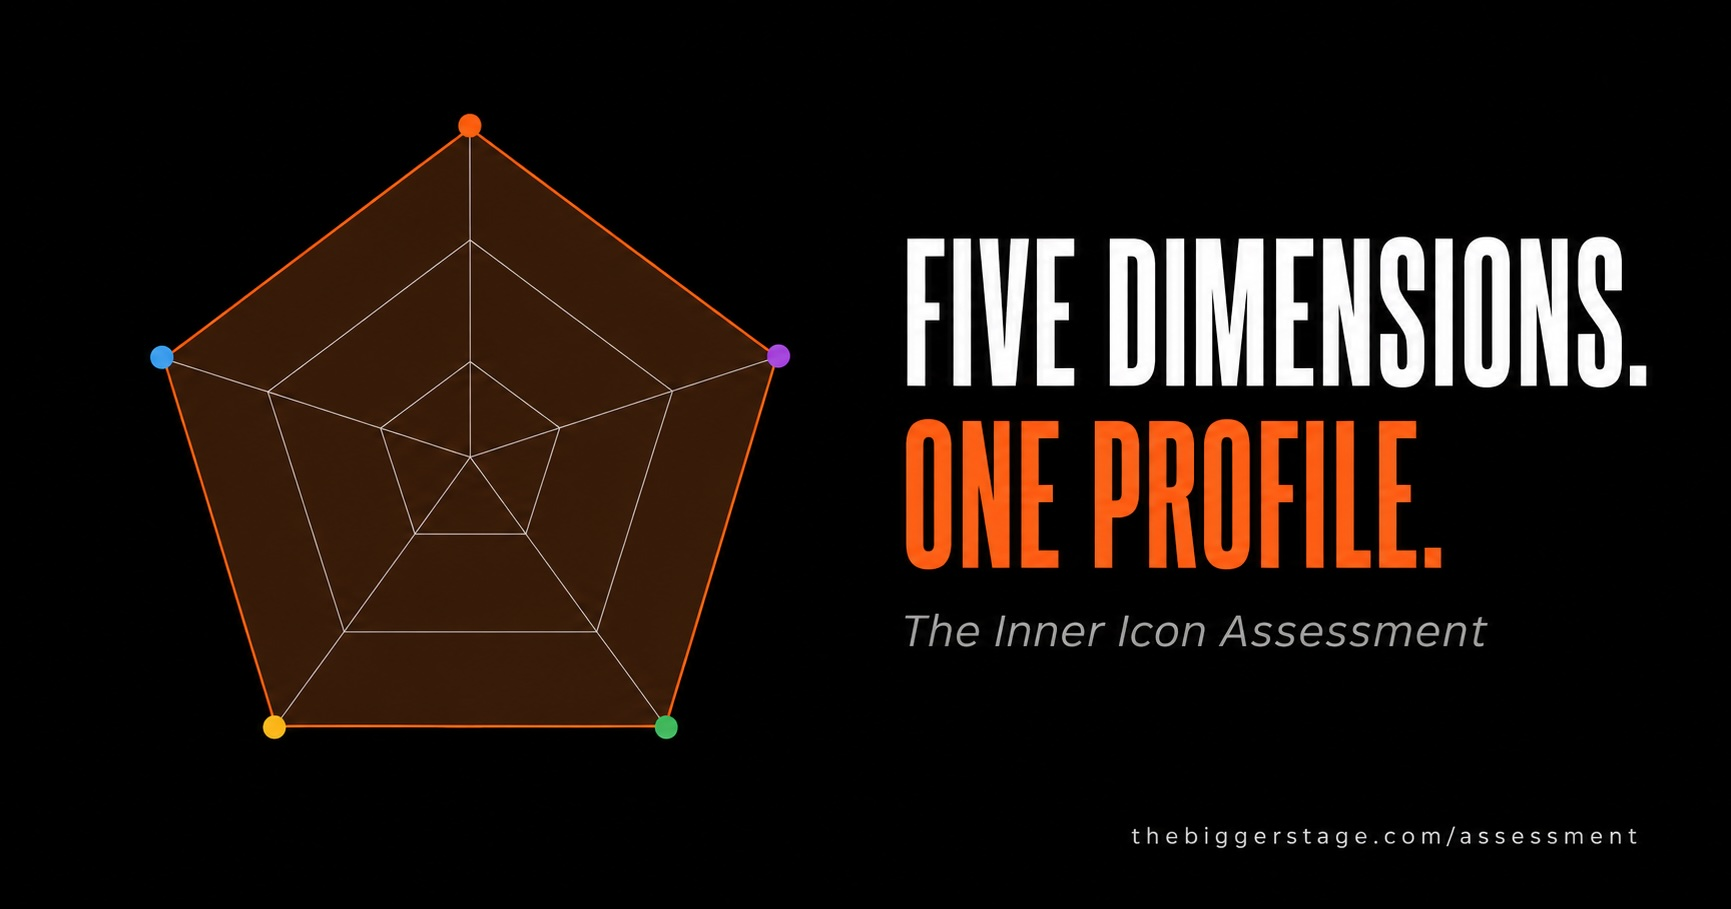
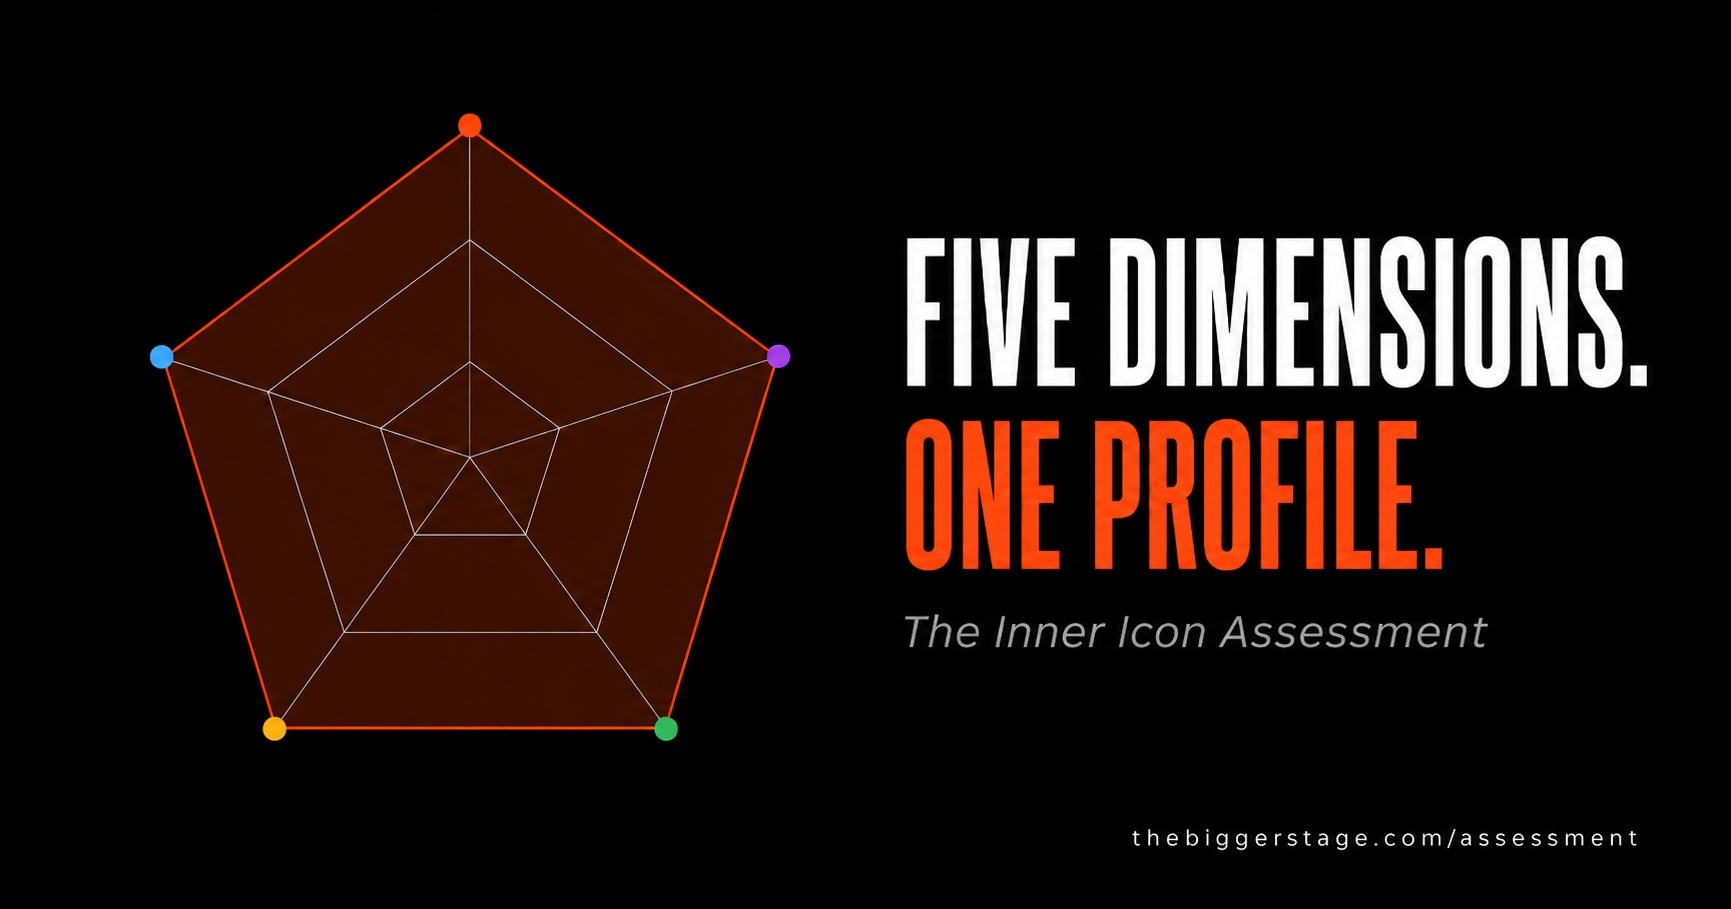
color changes

diff --git a/assessment/index.html b/assessment/index.html
@@ -41,8 +41,8 @@
   --text:        #e8e4dc;
   --text-dim:    #8a8780;
   --text-dimmer: #5a5750;
-  --orange:      #E8722A;
-  --orange-dim:  rgba(232,114,42,0.10);
+  --orange:      #FF5722;
+  --orange-dim:  rgba(255,87,34,0.10);
   --white:       #f5f2ec;
   --nav-h:       56px;
 }
@@ -273,7 +273,7 @@ footer { border-top: 1px solid var(--border); padding: 32px 40px; display: flex;
     <div class="dim-desc">How solid your operator base is</div>
   </div>
   <div class="dim-cell">
-    <div class="dim-dot" style="background:#E8722A;"></div>
+    <div class="dim-dot" style="background:#FF5722;"></div>
     <div class="dim-name">Presence</div>
     <div class="dim-desc">How you show up in rooms</div>
   </div>
@@ -330,8 +330,8 @@ footer { border-top: 1px solid var(--border); padding: 32px 40px; display: flex;
   </div>
 
   <!-- ── PRESENCE ── -->
-  <div class="dim-header" style="border-left-color:#E8722A;">
-    <div class="dim-header-dot" style="background:#E8722A;"></div>
+  <div class="dim-header" style="border-left-color:#FF5722;">
+    <div class="dim-header-dot" style="background:#FF5722;"></div>
     <div class="dim-header-name">Presence</div>
     <div class="dim-header-label">Questions 3 – 4</div>
   </div>
@@ -358,7 +358,7 @@ footer { border-top: 1px solid var(--border); padding: 32px 40px; display: flex;
 
   <!-- Milestone: Presence complete -->
   <div class="milestone" id="ms2">
-    <span class="ms-dot" style="background:#E8722A;"></span>
+    <span class="ms-dot" style="background:#FF5722;"></span>
     Presence complete &nbsp;·&nbsp; 2 of 5 dimensions
   </div>
 
@@ -541,7 +541,7 @@ const DIMS = [
     high: 'Your foundation is strong. You\'ve proven yourself. People trust your capability — now they need to trust your vision.'
   },
   {
-    key: 'presence', label: 'Presence', color: '#E8722A',
+    key: 'presence', label: 'Presence', color: '#FF5722',
     desc: 'How you show up in rooms — the gravity, point of view, and energy you carry.',
     low:  'You\'re letting your work speak before you do. Presence means walking in with a perspective, not just a resume.',
     mid:  'You have a clear point of view and people notice it. The next step is making that presence feel inevitable — not earned in the room, but carried into it.',
@@ -874,9 +874,9 @@ function drawSpider(dimScores) {
   ctx.beginPath();
   pts.forEach((p, i) => i === 0 ? ctx.moveTo(p.x, p.y) : ctx.lineTo(p.x, p.y));
   ctx.closePath();
-  ctx.fillStyle   = 'rgba(232,114,42,0.13)';
+  ctx.fillStyle   = 'rgba(255,87,34,0.13)';
   ctx.fill();
-  ctx.strokeStyle = 'rgba(232,114,42,0.55)';
+  ctx.strokeStyle = 'rgba(255,87,34,0.55)';
   ctx.lineWidth   = 1.5;
   ctx.stroke();
 
